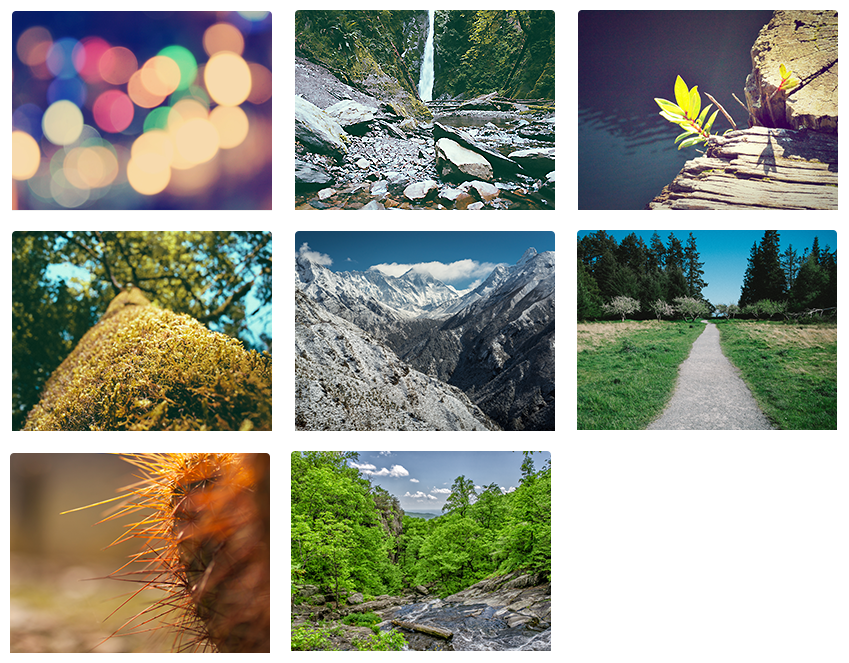
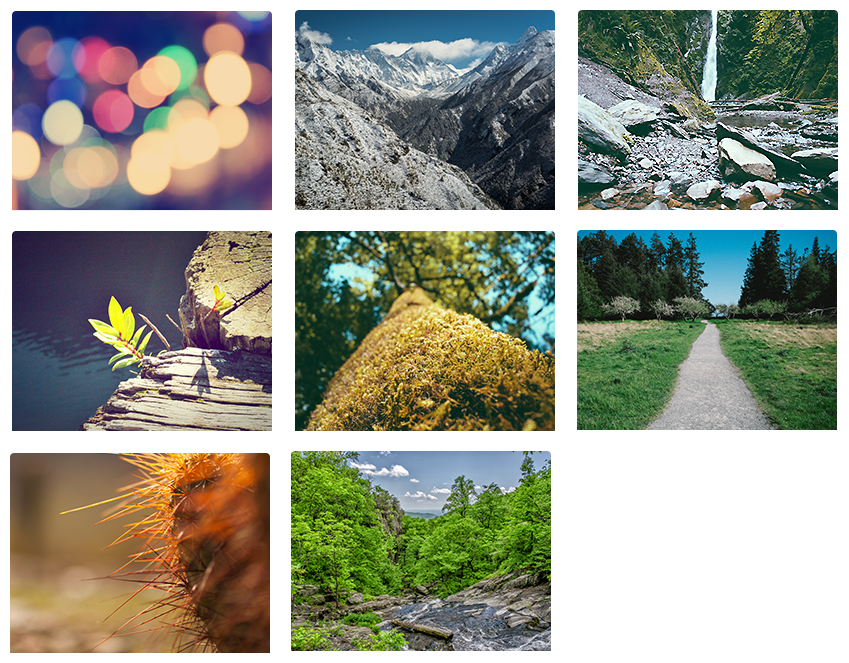
corrected pictures for work page

diff --git a/src/scss/work/main.scss b/src/scss/work/main.scss
@@ -169,7 +169,7 @@
                 top: 50%;
                 left: 50%;
                 transform: translate(-50%, -50%);
-                background: url('../../assets/circle-with-plus.png');
+                background: url('../../assets/pictures-work.png') -572px -451px;
                 transition: all 1s;
             }
 
@@ -193,7 +193,7 @@
                 }
 
                 &--fourth {
-                    background: url('../../assets/pictures-work.png') -293px -10px;
+                    background: url('../../assets/pictures-work.png') -576px -10px;
                 }
 
                 &--fifth {
@@ -201,15 +201,15 @@
                 }
 
                 &--sixth {
-                    background: url('../../assets/pictures-work.png') -293px -231px;
+                    background: url('../../assets/pictures-work.png') -293px -10px;
                 }
 
                 &--seventh {
-                    background: url('../../assets/pictures-work.png') -10px -231px;
+                    background: url('../../assets/pictures-work.png') -293px -231px;
                 }
 
                 &--eighth {
-                    background: url('../../assets/pictures-work.png') -576px -10px;
+                    background: url('../../assets/pictures-work.png') -10px -231px;
                 }
             }
 
